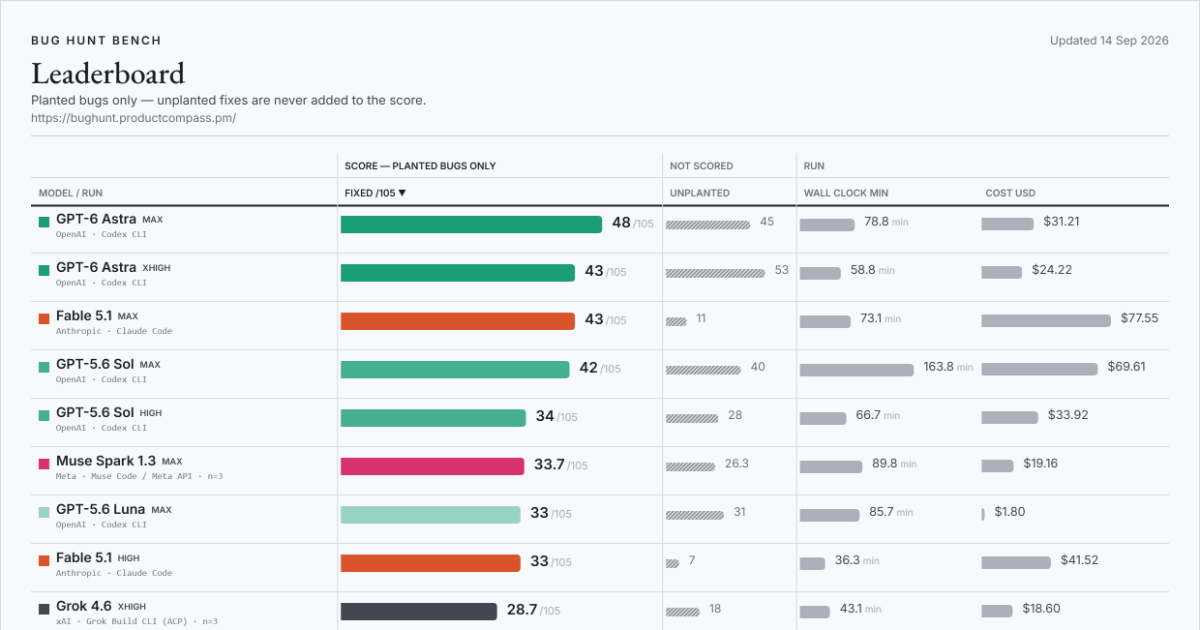
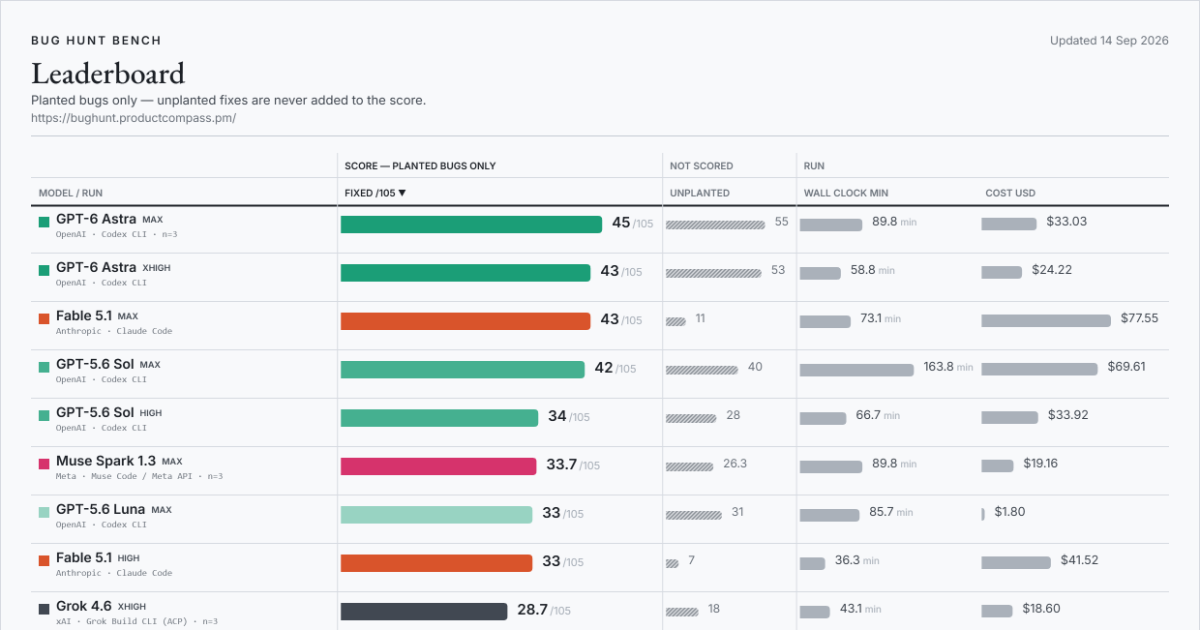
bug hunt bench: GPT-6 Astra (max effort) - mean of 3 (45/105)

diff --git a/index.html b/index.html
@@ -22,14 +22,14 @@
 <meta property="og:title" content="Bug Hunt Bench — frontier coding models against real planted bugs">
 <meta property="og:description" content="A blind-graded benchmark of frontier coding models on real bugs planted in two production codebases. The score counts planted bugs only; extra fixes are tracked separately and never added.">
 <meta property="og:url" content="https://bughunt.productcompass.pm/">
-<meta property="og:image" content="https://bughunt.productcompass.pm/og-image.png?v=2026-09-14-8de3c394">
+<meta property="og:image" content="https://bughunt.productcompass.pm/og-image.png?v=2026-09-14-4af3d863">
 <meta property="og:image:width" content="1200">
 <meta property="og:image:height" content="630">
 <meta property="og:image:alt" content="Bug Hunt Bench leaderboard">
 <meta name="twitter:card" content="summary_large_image">
 <meta name="twitter:title" content="Bug Hunt Bench — frontier coding models against real planted bugs">
 <meta name="twitter:description" content="A blind-graded benchmark of frontier coding models on real bugs planted in two production codebases. The score counts planted bugs only.">
-<meta name="twitter:image" content="https://bughunt.productcompass.pm/og-image.png?v=2026-09-14-8de3c394">
+<meta name="twitter:image" content="https://bughunt.productcompass.pm/og-image.png?v=2026-09-14-4af3d863">
 <meta name="twitter:creator" content="@PawelHuryn">
 
 <link rel="icon" href="/assets/favicon.svg" type="image/svg+xml">

diff --git a/method.html b/method.html
@@ -20,14 +20,14 @@
 <meta property="og:title" content="Method, caveats and definitions — Bug Hunt Bench">
 <meta property="og:description" content="How Bug Hunt Bench is run and graded, what the board cannot tell you, and what every column on it means.">
 <meta property="og:url" content="https://bughunt.productcompass.pm/method">
-<meta property="og:image" content="https://bughunt.productcompass.pm/og-image.png?v=2026-09-14-8de3c394">
+<meta property="og:image" content="https://bughunt.productcompass.pm/og-image.png?v=2026-09-14-4af3d863">
 <meta property="og:image:width" content="1200">
 <meta property="og:image:height" content="630">
 <meta property="og:image:alt" content="Bug Hunt Bench leaderboard">
 <meta name="twitter:card" content="summary_large_image">
 <meta name="twitter:title" content="Method, caveats and definitions — Bug Hunt Bench">
 <meta name="twitter:description" content="How Bug Hunt Bench is run and graded, what the board cannot tell you, and what every column on it means.">
-<meta name="twitter:image" content="https://bughunt.productcompass.pm/og-image.png?v=2026-09-14-8de3c394">
+<meta name="twitter:image" content="https://bughunt.productcompass.pm/og-image.png?v=2026-09-14-4af3d863">
 <meta name="twitter:creator" content="@PawelHuryn">
 
 <link rel="icon" href="/assets/favicon.svg" type="image/svg+xml">
